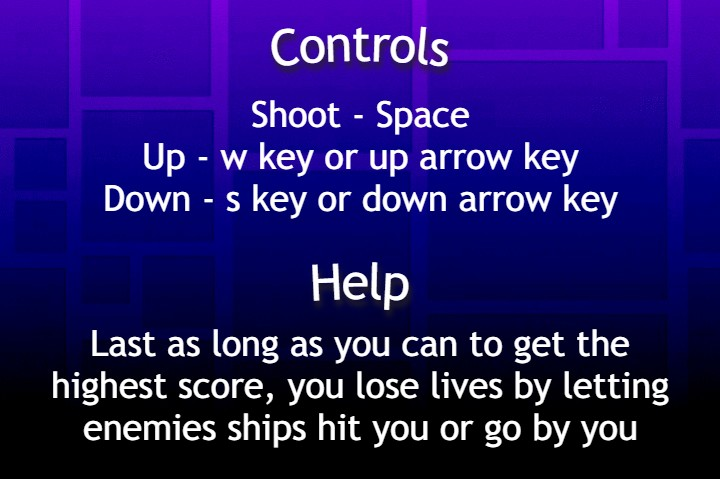
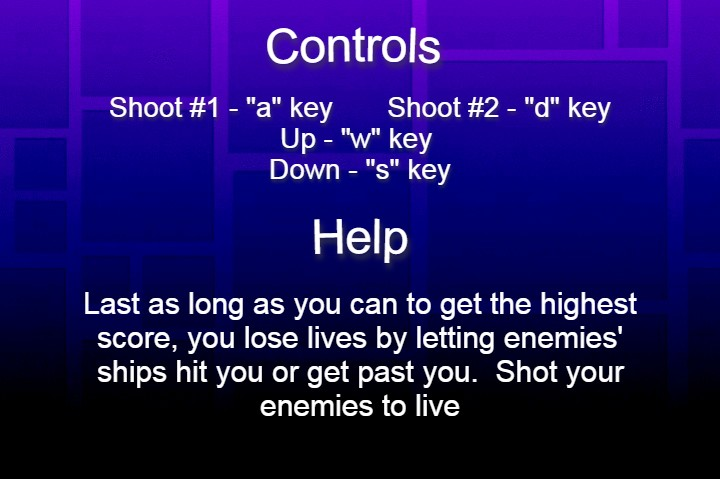
Commit 23
Fixed bugs and made some changes to my help screen

Changed region(s): [[0.0611, 0.2046, 0.9472, 0.9353], [0.3667, 0.0585, 0.6417, 0.1754]]

diff --git a/Orbit Defenders.py b/Orbit Defenders.py
@@ -91,7 +91,7 @@ def score():
             global points, gameSpeed, seconds, font
             seconds = (pygame.time.get_ticks() - startTicks) / 1000 
             if seconds % 60 == 0:
-                    gameSpeed += 0.25    # gameSpeed is increased by 0.25
+                    gameSpeed += 0.1    # gameSpeed is increased by 0.1
 
             text = font.render("Seconds Alive: " + str(seconds), True, (255, 255, 255)) # Display "Seconds Alive" and number of points on screen
             textRect = text.get_rect()        # Gets cooridinates of text
@@ -130,6 +130,7 @@ def end(deathCount):
         quit()            # Exit for program
     if ev.type == pygame.KEYDOWN:
         main()
+        
     #-----------------------------End Screen Logic---------------------------------------------# 
     # Rendering written font
     global finalTime
@@ -263,6 +264,8 @@ def main():
         user.draw(gameScreen) # Draws spaceShip on screen
         user.update(userInput) # Updates spaceShip on screen when needed
         
+        
+            
         # If deathCount is equal to 0 print fullLives on screen
         if deathCount == 0:
             gameScreen.blit(fullLives, (10, 10))
@@ -322,8 +325,9 @@ def main():
             global finalTime
             obstacle.draw(gameScreen) # Draws Obstacles
             obstacle.update() # Updates Obstacle
+            finalTime = seconds
             
-            if deathCount == 3: # If deathCount is equal to 3 / All three lives have been lost
+            if deathCount >= 3: # If deathCount is equal to 3 / All three lives have been lost
                 end(deathCount)   # Start Endscreen
                 
             if (not obstacle.onScreen()):  # Of obstacle is off screen
@@ -332,7 +336,7 @@ def main():
                 
             if user.ship_rect.colliderect(obstacle.rect):  # If the rectangle of the obstacle collides with the Ship's rectangle
                 obstacles.remove(obstacle)                 # Removes obstacle
-                finalTime = seconds
+                
                 gameScreen.blit(explosion[3], (user.xPos+25, user.yPos-20)) # Makes an explosion when collison is present
                 deathCount += 1            # Adds or equals one to deathCount
             
@@ -347,17 +351,19 @@ def main():
                 gameScreen.blit(explosion[3], (bulletTwo.rect.x+25, bulletTwo.rect.y-20)) # Makes an explosion when collison is present
             
             # If user presses Spacebar and bullet1 is off screen, move bullet to posistions of spaceship
-            if userInput[pygame.K_SPACE] and bullet.onScreen2() is True:
+            if userInput[pygame.K_a] and bullet.onScreen2() is True:
                 bullet.rect.x = user.xPos+27.5
                 bullet.rect.y = user.yPos+17.5
+                print("Shooting Bullet 1")
             
             # If user presses Spacebar and bullet1 is on screen and bullet2 is off screen, move bulletwo to posistions of spaceship
-            if userInput[pygame.K_SPACE] and bullet.onScreen2() is False and bulletTwo.onScreen3() is True:
-                bulletTwo.rect.x = user.xPos+27.5
-                bulletTwo.rect.y = user.yPos+16.5
-        
+            if userInput[pygame.K_d] and bulletTwo.onScreen3() is True:
+                    bulletTwo.rect.x = user.xPos+27.5
+                    bulletTwo.rect.y = user.yPos+16.5
+                    print("Shooting Bullet 2")
             
-        print(bulletTwo.onScreen3())
+        
+        
                 
             
         bullet.draw(gameScreen)  # Draws Bullet on screen
@@ -374,7 +380,7 @@ def main():
         userInput = pygame.key.get_pressed() # Gets the state of all keyboard button
         #-----------------------------Drawing Everything-------------------------------------#
         # We draw everything from scratch on each frame.
-        
+
         score()  # Starts score function
         
         clock.tick(30)  #Force frame rate to be slower
